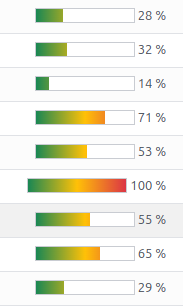
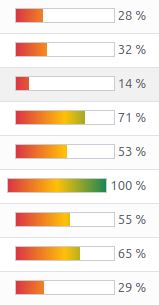
[IMP] web_widget_progressbar_gradient: Add inverse option
Allows to reverse the gradient rendering

diff --git a/web_widget_progressbar_gradient/static/description/index.html b/web_widget_progressbar_gradient/static/description/index.html
@@ -373,7 +373,14 @@ ul.auto-toc {
 <p>This module allows to display progress bars with colorized gradient bar.
 The color will increase following value from green passing per yellow
 and finishing to red.</p>
+<ul class="simple">
+<li>Normal rendering:</li>
+</ul>
 <p><img alt="Progressbar Gradient" src="https://raw.githubusercontent.com/OCA/web/16.0/web_widget_progressbar_gradient/static/description/progressbar_gradient.png" /></p>
+<ul class="simple">
+<li>Reverse rendering:</li>
+</ul>
+<p><img alt="Progressbar Inverse Gradient" src="https://raw.githubusercontent.com/OCA/web/16.0/web_widget_progressbar_gradient/static/description/progressbar_gradient_inverse.png" /></p>
 <p><strong>Table of contents</strong></p>
 <div class="contents local topic" id="contents">
 <ul class="simple">
@@ -393,6 +400,8 @@ and finishing to red.</p>
 <ul class="simple">
 <li>When declaring a progressbar field, use the ‘progressbar_color’
 widget.</li>
+<li>Add the inverse option to reverse the colors on the progress bar
+field: <tt class="docutils literal"><span class="pre">options=&quot;{'inverse':</span> true}&quot;</tt></li>
 </ul>
 </div>
 <div class="section" id="known-issues-roadmap">
@@ -423,6 +432,7 @@ If you spotted it first, help us to smash it by providing a detailed and welcome
 <ul class="simple">
 <li>Denis Roussel <a class="reference external" href="mailto:denis.roussel&#64;acsone.eu">denis.roussel&#64;acsone.eu</a></li>
 <li>Jacques-Etienne Baudoux <a class="reference external" href="mailto:je&#64;bcim.be">je&#64;bcim.be</a></li>
+<li>Souheil Bejaoui <a class="reference external" href="mailto:souheil.bejaoui&#64;acsone.eu">souheil.bejaoui&#64;acsone.eu</a></li>
 </ul>
 </div>
 <div class="section" id="maintainers">

diff --git a/web_widget_progressbar_gradient/static/src/js/progressbar.esm.js b/web_widget_progressbar_gradient/static/src/js/progressbar.esm.js
@@ -5,11 +5,35 @@
 import {ProgressBarField} from "@web/views/fields/progress_bar/progress_bar_field";
 import {registry} from "@web/core/registry";
 
+const {onMounted} = owl;
 export class ProgressBarFieldGradient extends ProgressBarField {
     setup() {
         super.setup();
+        onMounted(() => this._mounted());
+    }
+
+    _mounted() {
+        // Set the gradient css and inverse if set
+        for (const child of this.__owl__.bdom.el.children) {
+            if (child.classList.contains("o_progress")) {
+                child.children[0].classList.add("o_progressbar_gradient");
+                if (this.props.inverse) {
+                    child.children[0].classList.add("o_inverse");
+                }
+            }
+        }
     }
 }
+ProgressBarFieldGradient.extractProps = ({attrs}) => {
+    return {
+        inverse: attrs.options.inverse,
+    };
+};
 ProgressBarFieldGradient.template =
     "web_widget_progressbar_color.ProgressBarFieldGradient";
+ProgressBarFieldGradient.props = {
+    ...ProgressBarField.props,
+    inverse: {type: Boolean, optional: true},
+};
+
 registry.category("fields").add("progressbar_gradient", ProgressBarFieldGradient);

diff --git a/web_widget_progressbar_gradient/static/src/scss/progressbar.scss b/web_widget_progressbar_gradient/static/src/scss/progressbar.scss
@@ -8,7 +8,8 @@ div:has(div.o_progressbar_gradient) .o_progressbar .o_progress {
     -webkit-mask: linear-gradient(#fff 0 0);
     mask: linear-gradient(#fff 0 0);
 }
-.o_progressbar .o_progress .o_progressbar_gradient::before {
+
+.o_progressbar .o_progress .o_progressbar_gradient.o_inverse::before {
     content: "";
     position: absolute;
     top: 0;
@@ -16,4 +17,14 @@ div:has(div.o_progressbar_gradient) .o_progressbar .o_progress {
     right: 0;
     bottom: 0;
     background-image: linear-gradient(to right, #198754, #ffc107, #dc3545);
+}
+
+.o_progressbar .o_progress .o_progressbar_gradient::before {
+    content: "";
+    position: absolute;
+    top: 0;
+    left: 0;
+    right: 0;
+    bottom: 0;
+    background-image: linear-gradient(to right, #dc3545, #ffc107, #198754);
 }

diff --git a/web_widget_progressbar_gradient/README.rst b/web_widget_progressbar_gradient/README.rst
@@ -32,9 +32,16 @@ This module allows to display progress bars with colorized gradient bar.
 The color will increase following value from green passing per yellow
 and finishing to red.
 
+- Normal rendering:
+
 |Progressbar Gradient|
 
+- Reverse rendering:
+
+|Progressbar Inverse Gradient|
+
 .. |Progressbar Gradient| image:: https://raw.githubusercontent.com/OCA/web/16.0/web_widget_progressbar_gradient/static/description/progressbar_gradient.png
+.. |Progressbar Inverse Gradient| image:: https://raw.githubusercontent.com/OCA/web/16.0/web_widget_progressbar_gradient/static/description/progressbar_gradient_inverse.png
 
 **Table of contents**
 
@@ -46,6 +53,8 @@ Usage
 
 - When declaring a progressbar field, use the 'progressbar_color'
   widget.
+- Add the inverse option to reverse the colors on the progress bar
+  field: ``options="{'inverse': true}"``
 
 Known issues / Roadmap
 ======================
@@ -76,6 +85,7 @@ Contributors
 
 - Denis Roussel denis.roussel@acsone.eu
 - Jacques-Etienne Baudoux je@bcim.be
+- Souheil Bejaoui souheil.bejaoui@acsone.eu
 
 Maintainers
 -----------

diff --git a/web_widget_progressbar_gradient/readme/DESCRIPTION.md b/web_widget_progressbar_gradient/readme/DESCRIPTION.md
@@ -2,4 +2,10 @@ This module allows to display progress bars with colorized gradient bar.
 The color will increase following value from green passing per yellow
 and finishing to red.
 
+- Normal rendering:
+
 ![Progressbar Gradient](../static/description/progressbar_gradient.png)
+
+- Reverse rendering:
+
+![Progressbar Inverse Gradient](../static/description/progressbar_gradient_inverse.png)

diff --git a/web_widget_progressbar_gradient/readme/USAGE.md b/web_widget_progressbar_gradient/readme/USAGE.md
@@ -1,1 +1,3 @@
 - When declaring a progressbar field, use the 'progressbar_color' widget.
+- Add the inverse option to reverse the colors on the progress bar field:
+    ``options="{'inverse': true}"``

diff --git a/web_widget_progressbar_gradient/readme/CONTRIBUTORS.md b/web_widget_progressbar_gradient/readme/CONTRIBUTORS.md
@@ -1,2 +1,3 @@
 - Denis Roussel <denis.roussel@acsone.eu>
 - Jacques-Etienne Baudoux <je@bcim.be>
+- Souheil Bejaoui <souheil.bejaoui@acsone.eu>
